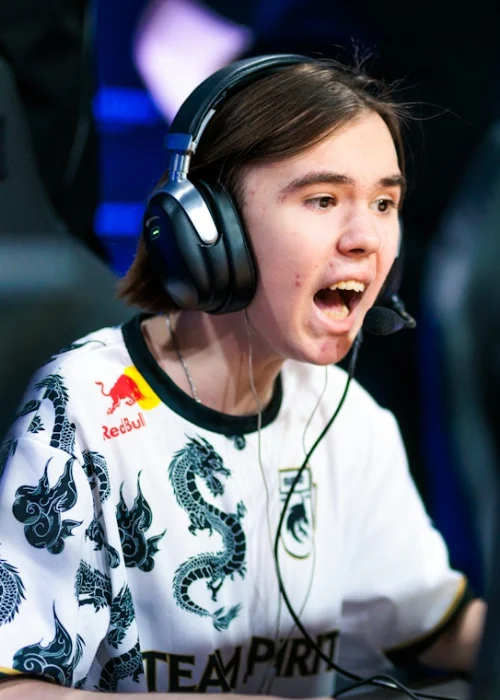
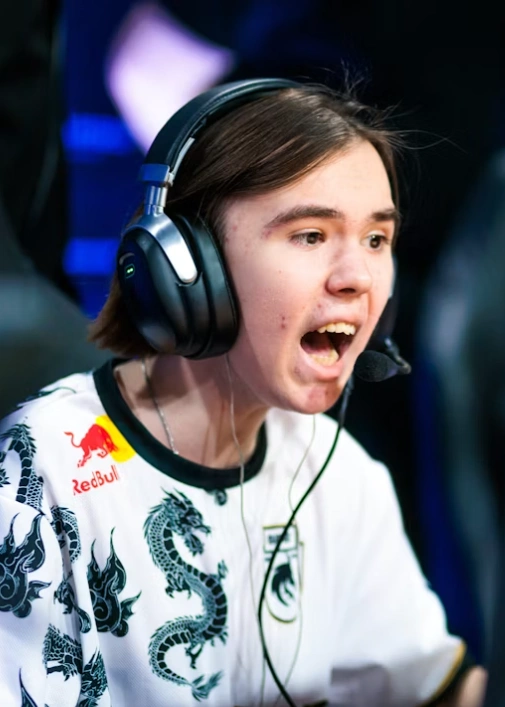
feat(cartas): retratos padronizados e bancada de recorte
Os seis retratos foram refeitos a partir das fontes originais, com a mesma
grade de docs/card-portraits.md: olhos entre 29% e 30%, queixo entre 48% e
51%, rosto no eixo. Antes o enquadramento variava muito — sh1ro pequeno,
chopper num close com o queixo a 63%, fora da faixa 47-56%.

O recorte final foi feito pelo responsavel, nao por mim: enquadramento e
julgamento visual, e ele estava vendo ao vivo. Dai a bancada.

`recorte-retratos.html` carrega a fonte, trava o quadro em 5:7, mostra as
faixas da grade sobre a imagem e — o que importa — renderiza a PREVIA na
carta real, importando `card-view.mjs` e `style.css`. Nao ha copia de carta
ali; se a carta mudar, a bancada muda junto, como o laboratorio.

Uma licao entrou no codigo dela. A primeira versao exportava sempre
1000x1400 e o arquivo saia macio: com um quadro de 374x523 na fonte, isso e
ampliar 2,7x e inventar pixel. A previa escondia o defeito porque mostra a
carta a 260 px, onde qualquer ampliacao some. Agora a saida acompanha o
pixel nativo, limitada ao piso de 700 e ao teto de 1400 do contrato, e a
bancada avisa na tela quando a ampliacao passa de 1,25x. Qualidade 0,90 ->
0,95: a 0,90 havia artefato visivel no cabelo e no headset.

`fotos-origem/` guarda as fontes originais com o MESMO asset-id do arquivo
final, ignorado pelo Git. Nao e capricho: o original do donk estava salvo
como `YzZwfJqAvqzsRD9d4wzefC.avif` e recortar de novo virou uma cacada.
[…]

diff --git a/recorte-retratos.html b/recorte-retratos.html
@@ -1,0 +1,269 @@
+<!DOCTYPE html>
+<!-- Bancada de recorte de retratos.
+
+     Existe porque o enquadramento é julgamento visual, não cálculo: a grade de
+     `docs/card-portraits.md` diz a faixa, mas quem decide se o rosto ficou bem é
+     o olho. Aqui o responsável arrasta, dá zoom e exporta o asset já no contrato
+     — 5:7 exato, WebP, 1000×1400.
+
+     Não há cópia de carta aqui: a prévia importa `card-view.mjs` e `style.css`
+     reais, como o laboratório faz. Se a carta mudar, esta bancada muda junto. -->
+<html lang="pt-BR">
+<head>
+<meta charset="UTF-8">
+<meta name="viewport" content="width=device-width,initial-scale=1">
+<title>draft9-0 · recorte de retratos</title>
+<link rel="stylesheet" href="fonts.css">
+<link rel="stylesheet" href="style.css">
+<style>
+  body{padding:18px;font-family:'Barlow Semi Condensed',sans-serif}
+  .rb-wrap{max-width:1220px;margin:0 auto}
+  h1{font-family:var(--ff);font-size:1.2rem;letter-spacing:.14em;text-transform:uppercase;margin-bottom:4px}
+  .rb-sub{color:var(--dim);font-size:.82rem;margin-bottom:14px}
+  .rb-grid{display:grid;grid-template-columns:1fr 300px;gap:18px;align-items:start}
+  .rb-palco{position:relative;border:1px solid var(--line);border-radius:10px;
+    background:#0b1018;overflow:hidden;min-height:420px;display:flex;
+    align-items:center;justify-content:center}
+  .rb-palco canvas{display:block;max-width:100%;cursor:grab}
+  .rb-palco canvas.arrastando{cursor:grabbing}
+  .rb-vazio{color:var(--dim);font-size:.9rem;text-align:center;padding:60px 20px;line-height:1.7}
+  .rb-lado{display:flex;flex-direction:column;gap:12px}
+  .rb-card{width:260px}
+  .rb-linha{display:flex;gap:8px;align-items:center;font-size:.78rem;color:var(--dim)}
+  .rb-linha input[type=text]{flex:1;min-width:0;background:#0c121b;border:1px solid var(--line);
+    color:var(--txt);border-radius:6px;padding:6px 8px;font-family:var(--ff);font-size:.85rem}
+  button{font-family:var(--ff);font-size:.8rem;letter-spacing:.1em;text-transform:uppercase;
+    font-weight:700;padding:9px 12px;border-radius:8px;border:1px solid var(--line);
+    background:#111826;color:var(--txt);cursor:pointer}
+  button.rb-ok{background:var(--accent);border-color:var(--accent);color:#0b0f16}
+  button:disabled{opacity:.4;cursor:not-allowed}
+  .rb-med{font-size:.74rem;color:var(--dim);line-height:1.7;border-top:1px solid var(--line);padding-top:10px}
+  .rb-med b{color:var(--txt);font-family:var(--ff)}
+  .rb-ok-txt{color:var(--t2-green-lit)} .rb-mau{color:var(--s-red-lit)}
+  .rb-dica{font-size:.74rem;color:var(--dim);line-height:1.8}
+  .rb-dica kbd{background:#0c121b;border:1px solid var(--line);border-radius:4px;padding:1px 5px;
+    font-family:var(--ff);font-size:.72rem}
+</style>
+</head>
+<body>
+<div class="rb-wrap">
+  <h1>Recorte de retratos</h1>
+  <div class="rb-sub">Arraste a imagem para mover · roda do mouse para zoom · o quadro é sempre 5:7</div>
+
+  <div class="rb-grid">
+    <div class="rb-palco" id="palco">
+      <div class="rb-vazio" id="vazio">
+        Arraste aqui uma foto (AVIF, JPG, PNG ou WebP)<br>
+        <span style="opacity:.6">as faixas coloridas são a grade de docs/card-portraits.md:<br>
+        laranja = topo da cabeça · azul = olhos · verde = queixo</span>
+      </div>
+      <canvas id="tela" hidden></canvas>
+    </div>
+
+    <div class="rb-lado">
+      <div class="rb-card" id="previa"></div>
+      <div class="rb-linha">
+        <label for="fonte">fonte</label>
+        <select id="fonte" style="flex:1;min-width:0;background:#0c121b;border:1px solid var(--line);
+          color:var(--txt);border-radius:6px;padding:6px 8px;font-family:var(--ff);font-size:.85rem">
+          <option value="">— escolha um retrato —</option>
+        </select>
+      </div>
+      <div class="rb-linha">
+        <label for="assetId">asset-id</label>
+        <input type="text" id="assetId" placeholder="donk_kato24" spellcheck="false">
+      </div>
+      <button id="baixar" class="rb-ok" disabled>Baixar WebP 1000×1400</button>
+      <button id="verso" disabled>Ver o verso</button>
+      <div class="rb-med" id="medidas">Nenhuma imagem carregada.</div>
+      <div class="rb-dica">
+        <kbd>arrastar</kbd> move o quadro<br>
+        <kbd>roda</kbd> aproxima e afasta<br>
+        <kbd>R</kbd> volta ao enquadramento inicial<br><br>
+        O arquivo baixado já sai no contrato: 5:7 exato, WebP, 1000×1400.
+        Salve em <b>fotos/&lt;asset-id&gt;.webp</b> e rode
+        <b>npm run check</b>.
+      </div>
+    </div>
+  </div>
+</div>
+
+<script type="module">
+import {createCardView} from "./src/ui/game/card-view.mjs";
+import {TEAMS,STYLE_ID,STYLE_LABEL,STYLE_RECIPE,COACH_RECIPE} from "./src/public/simulation-api.mjs";
+
+const {cardClass,cardHTML}=createCardView({
+  styleId:STYLE_ID,styleLabel:STYLE_LABEL,styleRecipe:STYLE_RECIPE,coachRecipe:COACH_RECIPE});
+
+const $=id=>document.getElementById(id);
+const tela=$("tela"),ctx=tela.getContext("2d");
+/* A carta de referência da prévia é a mesma do laboratório: o retrato entra por
+   `--foto`, exatamente como no jogo, então o que se vê aqui é o que sai lá. */
+const modelo=TEAMS.flatMap(t=>t.jogadores).find(j=>j._eng?.id==="donk_kato24")
+  ||TEAMS[0].jogadores[0];
+
+let img=null,q=null,mostrandoVerso=false;   // q = {cx,cy,h} em coordenadas da FONTE
+const RAZAO=5/7;
+
+function enquadramentoInicial(){
+  /* Começa no maior 5:7 possível, centrado. É o ponto de partida neutro: qualquer
+     ajuste a partir daí é decisão de quem olha, não do código. */
+  const h=Math.min(img.naturalHeight,img.naturalWidth/RAZAO);
+  return {cx:img.naturalWidth/2,cy:img.naturalHeight/2,h};
+}
+function limites(){
+  const w=q.h*RAZAO;
+  q.h=Math.min(q.h,img.naturalHeight,img.naturalWidth/RAZAO);
+  q.cx=Math.min(Math.max(q.cx,w/2),img.naturalWidth-w/2);
+  q.cy=Math.min(Math.max(q.cy,q.h/2),img.naturalHeight-q.h/2);
+}
+function caixa(){const w=q.h*RAZAO;return {x:q.cx-w/2,y:q.cy-q.h/2,w,h:q.h};}
+
+function desenhar(){
+  const escala=Math.min(760/img.naturalWidth,460/img.naturalHeight,1);
+  tela.width=Math.round(img.naturalWidth*escala);
+  tela.height=Math.round(img.naturalHeight*escala);
+  ctx.drawImage(img,0,0,tela.width,tela.height);
+  const c=caixa(),e=escala;
+  // escurece tudo o que fica de fora do quadro
+  ctx.fillStyle="rgba(4,7,12,.72)";
+  ctx.fillRect(0,0,tela.width,c.y*e);
+  ctx.fillRect(0,(c.y+c.h)*e,tela.width,tela.height-(c.y+c.h)*e);
+  ctx.fillRect(0,c.y*e,c.x*e,c.h*e);
+  ctx.fillRect((c.x+c.w)*e,c.y*e,tela.width-(c.x+c.w)*e,c.h*e);
+  // faixas da grade fotográfica, dentro do quadro
+  const faixa=(de,ate,cor)=>{ctx.fillStyle=cor;
+    ctx.fillRect(c.x*e,(c.y+c.h*de)*e,c.w*e,c.h*(ate-de)*e);};
+  faixa(.05,.10,"rgba(255,90,42,.26)");
+  faixa(.28,.35,"rgba(75,215,255,.26)");
+  faixa(.47,.56,"rgba(62,192,126,.26)");
+  ctx.strokeStyle="rgba(255,255,255,.85)";ctx.lineWidth=2;
+  ctx.strokeRect(c.x*e,c.y*e,c.w*e,c.h*e);
+  ctx.strokeStyle="rgba(255,255,255,.30)";ctx.lineWidth=1;
+  ctx.beginPath();ctx.moveTo((c.x+c.w/2)*e,c.y*e);ctx.lineTo((c.x+c.w/2)*e,(c.y+c.h)*e);ctx.stroke();
+  atualizarPrevia();
+}
+
+/* TAMANHO DE SAÍDA — nunca inventa pixel.
+
+   A primeira versão exportava sempre 1000×1400. Quando o quadro na fonte tinha
+   571×800, isso era uma ampliação de 1,75× — o arquivo saía macio e o
+   responsável viu na hora. A prévia escondia o problema porque mostra a carta a
+   260 px, onde qualquer ampliação some.
+
+   Agora a saída acompanha o que a fonte realmente tem, limitada ao alvo de 1400
+   e ao piso de 700 do contrato. A altura é múltiplo de 7 para a proporção fechar
+   em 5:7 EXATO, que é o que `check-card-portraits.js` cobra — arredondar solto
+   produzia 5:6,998 e reprovava. */
+function tamanhoSaida(){
+  const c=caixa();
+  const nativa=Math.floor(c.h/7)*7;
+  const altura=Math.min(1400,Math.max(700,nativa));
+  return {w:altura/7*5,h:altura,ampliacao:altura/c.h};
+}
+
+function recortar(largura,altura,qualidade){
+  const c=caixa(),saida=document.createElement("canvas");
+  saida.width=largura;saida.height=altura;
+  const g=saida.getContext("2d");
+  g.imageSmoothingEnabled=true;g.imageSmoothingQuality="high";
+  g.drawImage(img,c.x,c.y,c.w,c.h,0,0,largura,altura);
+  return saida.toDataURL("image/webp",qualidade);
+}
+
+function atualizarPrevia(){
+  const url=recortar(500,700,.85);
+  $("previa").innerHTML=`<div class="${cardClass(modelo)}${mostrandoVerso?" flipped":""}"
+    style="width:260px">${cardHTML(modelo)}</div>`;
+  const faces=$("previa").querySelector(".cfaces");
+  faces.style.setProperty("--foto",`url('${url}')`);
+  const c=caixa(),s=tamanhoSaida();
+  const nativo=s.ampliacao<=1.001;
+  $("medidas").innerHTML=
+    `quadro na fonte: <b>${Math.round(c.w)}×${Math.round(c.h)}</b> em `+
+    `(${Math.round(c.x)}, ${Math.round(c.y)})<br>`+
+    `arquivo que vai sair: <b>${s.w}×${s.h}</b><br>`+
+    (nativo
+      ? `<span class="rb-ok-txt">pixel nativo — nenhuma ampliação</span>`
+      : `ampliação: <b>${s.ampliacao.toFixed(2)}×</b> `+
+        `<span class="${s.ampliacao<=1.25?"rb-ok-txt":"rb-mau"}">`+
+        `${s.ampliacao<=1.25?"aceitável":"vai ficar macio — afaste o zoom para pegar mais pixel"}</span>`);
+  $("baixar").textContent=`Baixar WebP ${s.w}×${s.h}`;
+}
+
+function carregar(arquivo){
+  const url=URL.createObjectURL(arquivo);
+  const nova=new Image();
+  nova.onload=()=>{
+    img=nova;q=enquadramentoInicial();limites();
+    $("vazio").hidden=true;tela.hidden=false;
+    $("baixar").disabled=false;$("verso").disabled=false;
+    if(!$("assetId").value)$("assetId").value=arquivo.name.replace(/\.[^.]+$/,"");
+    desenhar();
+  };
+  nova.onerror=()=>{$("medidas").innerHTML=
+    '<span class="rb-mau">Não deu para decodificar esta imagem.</span>';};
+  nova.src=url;
+}
+
+/* As fontes vivem em `fotos-origem/`, com o MESMO asset-id do arquivo final.
+   Elas não são versionadas — são material de trabalho — mas ficam no projeto para
+   que recortar de novo não dependa de caçar o original na pasta de downloads.
+   Foi exatamente isso que aconteceu em 01/08/2026, com o retrato do donk salvo
+   sob um nome de hash. */
+function carregarUrl(url,id){
+  const nova=new Image();
+  nova.onload=()=>{
+    img=nova;q=enquadramentoInicial();limites();
+    $("vazio").hidden=true;tela.hidden=false;
+    $("baixar").disabled=false;$("verso").disabled=false;
+    $("assetId").value=id;
+    desenhar();
+  };
+  nova.onerror=()=>{$("medidas").innerHTML=
+    '<span class="rb-mau">Não deu para carregar '+url+'</span>';};
+  nova.src=url;
+}
+fetch("fotos-origem/index.json").then(r=>r.ok?r.json():[]).then(lista=>{
+  const sel=$("fonte");
+  for(const arquivo of lista){
+    const o=document.createElement("option");
+    o.value=arquivo;o.textContent=arquivo.replace(/\.[^.]+$/,"");
+    sel.appendChild(o);
+  }
+  sel.onchange=()=>{if(sel.value)
+    carregarUrl("fotos-origem/"+sel.value,sel.value.replace(/\.[^.]+$/,""));};
+}).catch(()=>{});
+
+document.addEventListener("dragover",e=>e.preventDefault());
+document.addEventListener("drop",e=>{e.preventDefault();
+  const f=e.dataTransfer.files&&e.dataTransfer.files[0];if(f)carregar(f);});
+
+let arrastando=null;
+tela.addEventListener("pointerdown",e=>{if(!img)return;
+  arrastando={x:e.clientX,y:e.clientY,cx:q.cx,cy:q.cy};
+  tela.classList.add("arrastando");tela.setPointerCapture(e.pointerId);});
+tela.addEventListener("pointermove",e=>{if(!arrastando)return;
+  const escala=tela.width/img.naturalWidth;
+  q.cx=arrastando.cx-(e.clientX-arrastando.x)/escala;
+  q.cy=arrastando.cy-(e.clientY-arrastando.y)/escala;
+  limites();desenhar();});
+tela.addEventListener("pointerup",()=>{arrastando=null;tela.classList.remove("arrastando");});
+tela.addEventListener("wheel",e=>{if(!img)return;e.preventDefault();
+  q.h*=e.deltaY>0?1.04:1/1.04;limites();desenhar();},{passive:false});
+document.addEventListener("keydown",e=>{
+  if(e.key.toLowerCase()!=="r"||!img)return;q=enquadramentoInicial();limites();desenhar();});
+
+$("verso").onclick=()=>{mostrandoVerso=!mostrandoVerso;atualizarPrevia();};
+$("baixar").onclick=()=>{
+  const id=($("assetId").value||"retrato").replace(/[^a-zA-Z0-9_-]/g,"");
+  const s=tamanhoSaida();
+  /* 0,95 e não 0,9: a diferença de peso é pequena num recorte deste tamanho e o
+     WebP a 0,9 deixava artefato visível no cabelo e no headset. O teto de 500 kB
+     do contrato continua com folga larga. */
+  const a=document.createElement("a");
+  a.href=recortar(s.w,s.h,.95);a.download=id+".webp";a.click();
+};
+</script>
+</body>
+</html>
